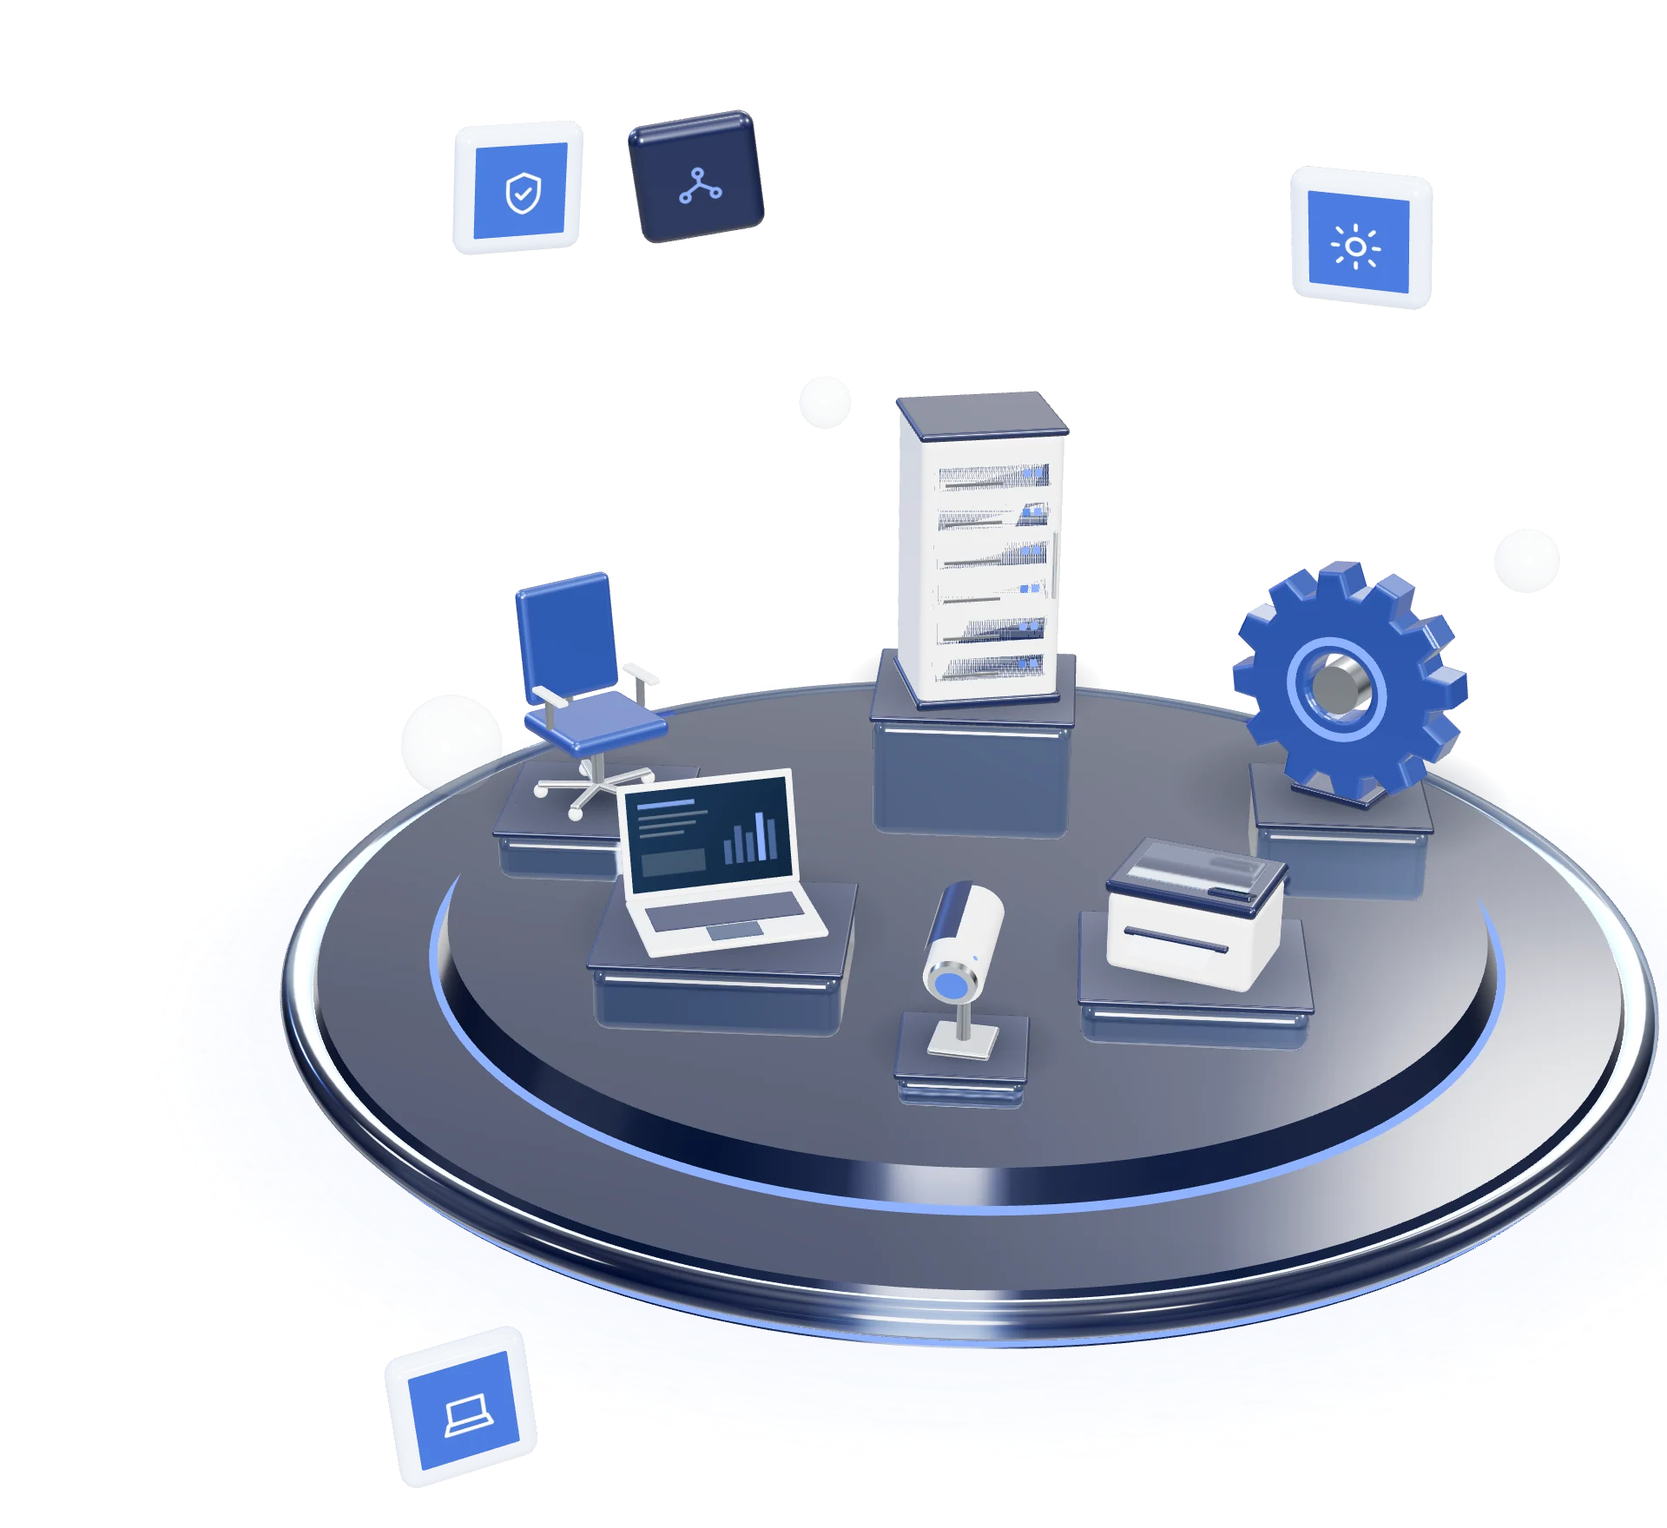
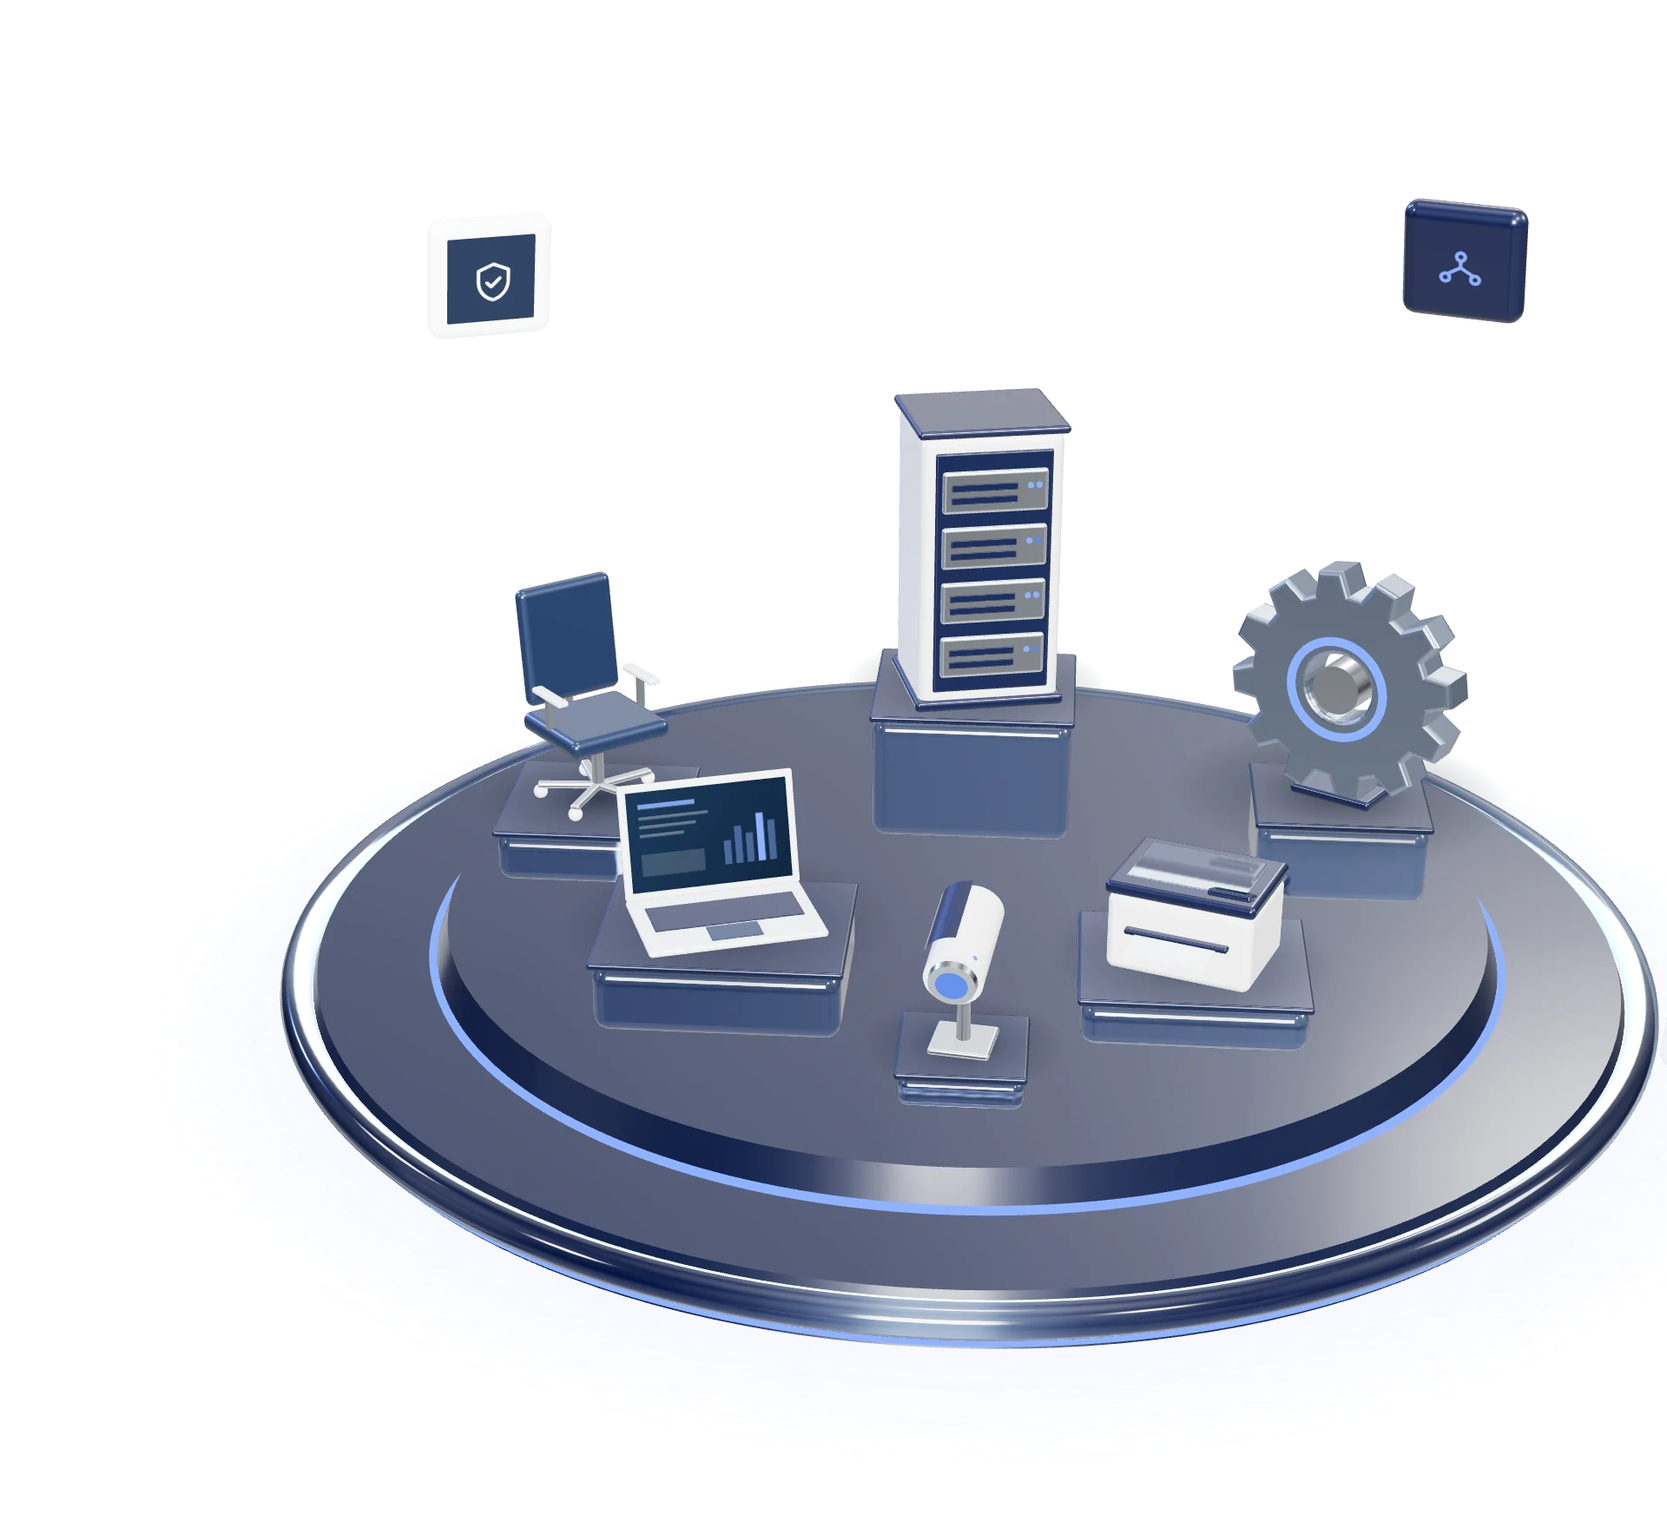
3D scene fixes and calmer look; tighter cards on phones
- Platform always fits: the hero camera pulls back to keep the whole
  platform inside the canvas at any aspect (live scene and poster).
- Server rack rebuilt with separate depths for cabinet, bay and units:
  no more z-fighting glitches; four clean server units with LEDs.
- Idle float only lifts products, so the laptop base never sinks into
  its plinth.
- Less 'generated' look: brushed-steel gear, navy chair, darker matte
  deck, three quiet navy-glass tiles, no floating spheres.
- All renders in public/3d re-rendered; size map updated.
- Cards: smaller padding and heights on phones (deck cards, bento,
  commitments, contact details and form).

diff --git a/src/components/three/products.ts b/src/components/three/products.ts
@@ -34,25 +34,30 @@ function assembly(children: THREE.Object3D[], [x, y, z]: V3 = [0, 0, 0], [rx, ry
 }
 
 function serverRack(m: Materials) {
-  const parts: THREE.Object3D[] = [part(rbox(1, 2, 0.9, 0.08), m.ceramic, [0, 1, 0])];
-  // Chrome door handle
-  parts.push(part(rbox(0.03, 0.5, 0.04, 0.015), m.chrome, [0.44, 1.05, 0.47]));
-  for (let i = 0; i < 6; i++) {
-    const y = 0.3 + i * 0.28;
+  // Cabinet, a recessed dark bay on its front, and four server units that
+  // stand proud of the bay. Every layer sits at its own depth (no shared
+  // faces), so nothing flickers.
+  const parts: THREE.Object3D[] = [
+    part(rbox(1, 2, 0.9, 0.08), m.ceramic, [0, 1, 0]),
+    part(rbox(0.82, 1.74, 0.03, 0.02), m.navy, [0, 1.02, 0.465]),
+  ];
+  for (let i = 0; i < 4; i++) {
+    const y = 0.42 + i * 0.4;
     parts.push(
       assembly(
         [
-          part(rbox(0.82, 0.22, 0.06, 0.03), m.navy),
-          part(new THREE.BoxGeometry(0.05, 0.05, 0.02), m.led, [0.31, 0.02, 0.035]),
-          part(new THREE.BoxGeometry(0.05, 0.05, 0.02), i % 2 ? m.led : m.ledSoft, [0.23, 0.02, 0.035]),
-          part(new THREE.BoxGeometry(0.4, 0.02, 0.02), m.chrome, [-0.14, -0.04, 0.035]),
+          part(rbox(0.74, 0.3, 0.05, 0.025), m.chrome),
+          part(rbox(0.46, 0.05, 0.012, 0.006), m.navy, [-0.08, 0.04, 0.03]),
+          part(rbox(0.46, 0.05, 0.012, 0.006), m.navy, [-0.08, -0.05, 0.03]),
+          part(new THREE.SphereGeometry(0.022, 14, 10), m.led, [0.24, 0.04, 0.03]),
+          part(new THREE.SphereGeometry(0.022, 14, 10), i % 2 ? m.led : m.ledSoft, [0.3, 0.04, 0.03]),
         ],
-        [0, y, 0.42],
+        [0, y, 0.5],
       ),
     );
   }
-  parts.push(part(rbox(1.04, 0.08, 0.94, 0.03), m.navy, [0, 0.04, 0]));
-  parts.push(part(rbox(1.04, 0.06, 0.94, 0.03), m.navy, [0, 2.0, 0]));
+  parts.push(part(rbox(1.06, 0.08, 0.96, 0.03), m.navy, [0, 0.04, 0]));
+  parts.push(part(rbox(1.06, 0.06, 0.96, 0.03), m.navy, [0, 2.02, 0]));
   return parts;
 }
 
@@ -114,8 +119,8 @@ function printer(m: Materials) {
 
 function officeChair(m: Materials) {
   const parts: THREE.Object3D[] = [
-    part(rbox(0.92, 0.16, 0.86, 0.07), m.steel, [0, 0.66, 0]),
-    part(rbox(0.86, 0.98, 0.13, 0.07), m.steel, [0, 1.28, -0.42], [-0.12, 0, 0]),
+    part(rbox(0.92, 0.16, 0.86, 0.07), m.brand, [0, 0.66, 0]),
+    part(rbox(0.86, 0.98, 0.13, 0.07), m.brand, [0, 1.28, -0.42], [-0.12, 0, 0]),
     part(rbox(0.1, 0.5, 0.06, 0.02), m.chrome, [0, 0.9, -0.46]),
     part(new THREE.CylinderGeometry(0.05, 0.05, 0.46, 20), m.chrome, [0, 0.38, 0]),
   ];
@@ -175,7 +180,7 @@ function gear(m: Materials) {
   });
   geometry.center();
   return [
-    part(geometry, m.steel, [0, 0.98, 0]),
+    part(geometry, m.metal, [0, 0.98, 0]),
     part(new THREE.TorusGeometry(0.4, 0.035, 14, 64), m.led, [0, 0.98, 0.2]),
     part(new THREE.CylinderGeometry(0.2, 0.2, 0.44, 32), m.chrome, [0, 0.98, 0], [Math.PI / 2, 0, 0]),
     part(rbox(0.7, 0.08, 0.4, 0.03), m.navy, [0, 0.04, 0]),

diff --git a/src/components/shared/contact-section.tsx b/src/components/shared/contact-section.tsx
@@ -55,7 +55,7 @@ export function ContactSection({ headingLevel = "h2" }: { headingLevel?: "h1" | 
           </Reveal>
 
           <Reveal delay={120} className="lg:col-span-7">
-            <div className="card relative overflow-hidden p-6 sm:p-10">
+            <div className="card relative overflow-hidden p-5 sm:p-8 lg:p-10">
               <span aria-hidden className="absolute inset-x-0 top-0 h-1 bg-linear-to-r from-navy via-steel to-sky" />
               <h3 className="text-h3 text-navy">Tell us what you need</h3>
               <p className="mt-2 text-sm leading-relaxed text-text-2">The more detail you share, the more precise our quotation.</p>
@@ -77,7 +77,7 @@ export function ContactSection({ headingLevel = "h2" }: { headingLevel?: "h1" | 
             <DetailCard icon={<Mail className="size-5" />} label="Email us" href={`mailto:${site.contact.email}`}>
               <span className="break-all">{site.contact.email}</span>
             </DetailCard>
-            <div id="office" className="card scroll-mt-32 p-6">
+            <div id="office" className="card scroll-mt-32 p-5 sm:p-6">
               <IconTile>
                 <MapPin className="size-5" />
               </IconTile>
@@ -96,7 +96,7 @@ export function ContactSection({ headingLevel = "h2" }: { headingLevel?: "h1" | 
                 </svg>
               </a>
             </div>
-            <div className="card p-6">
+            <div className="card p-5 sm:p-6">
               <IconTile>
                 <Clock className="size-5" />
               </IconTile>
@@ -129,7 +129,7 @@ function IconTile({ children }: { children: React.ReactNode }) {
 
 function DetailCard({ icon, label, href, children }: { icon: React.ReactNode; label: string; href: string; children: React.ReactNode }) {
   return (
-    <a href={href} className="group card flex flex-col p-6 transition-[translate,box-shadow] duration-500 ease-out-expo hover:-translate-y-0.5 hover:shadow-card-hover">
+    <a href={href} className="group card flex flex-col p-5 sm:p-6 transition-[translate,box-shadow] duration-500 ease-out-expo hover:-translate-y-0.5 hover:shadow-card-hover">
       <IconTile>{icon}</IconTile>
       <p className="mt-5 text-xs font-semibold tracking-[0.08em] text-text-3 uppercase">{label}</p>
       <p className="mt-2 text-[0.9375rem] font-semibold text-navy">{children}</p>

diff --git a/src/components/home/hero-scene.ts b/src/components/home/hero-scene.ts
@@ -11,7 +11,7 @@ import { gsap } from "@/lib/gsap";
 import { createMaterials, disposeMaterials, type Materials, type Quality } from "@/components/three/materials";
 import { createShared } from "@/components/three/pieces";
 import { buildHeroComposition } from "@/components/three/hero-composition";
-import { createEnvironment, createLights, createRenderer } from "@/components/three/stage";
+import { createEnvironment, createLights, createRenderer, fitHeroCamera } from "@/components/three/stage";
 import { PALETTE } from "@/components/three/materials";
 import { HERO_TUNING as T } from "./hero-tuning";
 
@@ -85,7 +85,8 @@ export function createHeroScene(canvas: HTMLCanvasElement, { mobile, reduced, qu
   const lights = createLights(scene, T.lights);
   const camera = new THREE.PerspectiveCamera(T.camera.fov, 1, 0.1, 100);
   const cam = T.camera[view];
-  const basePos = new THREE.Vector3(...cam.position);
+  const designPos = new THREE.Vector3(...cam.position);
+  let basePos = designPos.clone();
   const target = new THREE.Vector3(...cam.target);
 
   const m = createMaterials(quality);
@@ -102,6 +103,7 @@ export function createHeroScene(canvas: HTMLCanvasElement, { mobile, reduced, qu
     renderer.setSize(w, h, false);
     camera.aspect = w / h;
     camera.updateProjectionMatrix();
+    basePos = fitHeroCamera(camera, designPos, target);
   }
   resize();
   const ro = new ResizeObserver(resize);
@@ -175,7 +177,8 @@ export function createHeroScene(canvas: HTMLCanvasElement, { mobile, reduced, qu
       }
       const a = Math.max(0.0001, s.appear);
       prod.model.scale.setScalar(prod.slot.scale * a);
-      prod.model.position.y = prod.baseY + e * 0.6 + idle * Math.sin(time * 0.9 + prod.phase) * T.idle.float;
+      // Float only lifts (never sinks into the plinth).
+      prod.model.position.y = prod.baseY + e * 0.6 + idle * (0.5 + 0.5 * Math.sin(time * 0.9 + prod.phase)) * T.idle.float;
       prod.plinth.scale.set(1, Math.max(0.0001, Math.min(1, a * 1.2)), 1);
       (prod.shadow.material as THREE.MeshBasicMaterial).opacity = 0.7 * a * (1 - e);
       (prod.glint.material as THREE.SpriteMaterial).opacity = s.glint;

diff --git a/src/components/home/hero-tuning.ts b/src/components/home/hero-tuning.ts
@@ -50,28 +50,21 @@ export const HERO_TUNING = {
   },
 
   /** Frosted tiles at different depths; some cross the panel edge. */
+  /** Three quiet glass tiles; they drift slowly and tilt on hover. */
   tiles: {
     desktop: [
-      { icon: "shield", pos: [-3.4, 4.8, -2.6], rot: [0.2, 0.5, -0.12], size: 0.95 },
-      { icon: "network", pos: [-2.1, 4.9, -2.6], rot: [0.25, 0.25, 0.08], size: 0.9, navy: true },
-      { icon: "gear", pos: [2.6, 4.6, -2.4], rot: [0.3, -0.35, 0.1], size: 1.0 },
-      { icon: "camera", pos: [5.6, 3.1, 0.2], rot: [0.15, -0.6, 0.16], size: 1.1 },
-      { icon: "printer", pos: [5.2, 0.6, 2.9], rot: [-0.1, -0.5, -0.1], size: 0.9, navy: true },
-      { icon: "laptop", pos: [-2.6, -0.5, 4.6], rot: [-0.15, 0.5, 0.12], size: 0.8 },
+      { icon: "shield", pos: [-3.6, 4.2, -2.4], rot: [0.2, 0.45, -0.1], size: 0.9 },
+      { icon: "network", pos: [3.3, 4.5, -2.2], rot: [0.25, -0.35, 0.08], size: 0.85, navy: true },
+      { icon: "gear", pos: [4.6, 1.2, 2.6], rot: [-0.1, -0.5, -0.08], size: 0.8 },
     ] as TileSlot[],
     mobile: [
-      { icon: "shield", pos: [-3.6, 4.2, -1.2], rot: [0.2, 0.45, -0.1], size: 1.0 },
-      { icon: "gear", pos: [3.4, 4.4, -1.6], rot: [0.3, -0.35, 0.1], size: 1.0 },
-      { icon: "network", pos: [3.9, 1.0, 2.3], rot: [-0.1, -0.5, -0.1], size: 0.9, navy: true },
+      { icon: "shield", pos: [-3.2, 4.0, -1.6], rot: [0.2, 0.45, -0.1], size: 0.9 },
+      { icon: "network", pos: [3.2, 4.2, -1.6], rot: [0.25, -0.35, 0.08], size: 0.85, navy: true },
     ] as TileSlot[],
   },
   spheres: {
-    desktop: [
-      { pos: [-3.0, 2.5, 2.2] as [number, number, number], r: 0.3 },
-      { pos: [3.8, 2.6, -1.4] as [number, number, number], r: 0.22 },
-      { pos: [-0.9, 4.2, 0.6] as [number, number, number], r: 0.16 },
-    ],
-    mobile: [{ pos: [-3.0, 2.2, 2.0] as [number, number, number], r: 0.3 }],
+    desktop: [] as { pos: [number, number, number]; r: number }[],
+    mobile: [] as { pos: [number, number, number]; r: number }[],
   },
 
   idle: {

diff --git a/src/components/three/materials.ts b/src/components/three/materials.ts
@@ -62,12 +62,12 @@ export function createMaterials(quality: Quality) {
     }),
     /** The platform deck: deep, glossy, reflecting the blue rim light. */
     deck: new THREE.MeshPhysicalMaterial({
-      color: "#10203f",
-      metalness: 0.45,
-      roughness: 0.2,
-      clearcoat: 1,
-      clearcoatRoughness: 0.03,
-      envMapIntensity: 0.2,
+      color: "#0f1d3a",
+      metalness: 0.1,
+      roughness: 0.38,
+      clearcoat: 0.55,
+      clearcoatRoughness: 0.12,
+      envMapIntensity: 0.06,
     }),
     brand: new THREE.MeshPhysicalMaterial({
       color: PALETTE.brand,
@@ -82,6 +82,14 @@ export function createMaterials(quality: Quality) {
       roughness: 0.28,
       clearcoat: 0.7,
       clearcoatRoughness: 0.12,
+    }),
+    /** Brushed steel for mechanical parts (the gear). */
+    metal: new THREE.MeshPhysicalMaterial({
+      color: "#9aa8bd",
+      metalness: 0.9,
+      roughness: 0.34,
+      clearcoat: 0.4,
+      clearcoatRoughness: 0.2,
     }),
     chrome: new THREE.MeshStandardMaterial({ color: PALETTE.chrome, metalness: 1, roughness: 0.16 }),
     steel: new THREE.MeshPhysicalMaterial({
@@ -100,7 +108,7 @@ export function createMaterials(quality: Quality) {
     glass: glass("#e8f3fb", 0.08),
     /** Floating tiles and spheres sit over the page, not the scene, so they
      *  use fake glass: transmission over a transparent canvas reads milky. */
-    frost: glass("#9dbbf5", 0.06, 0.34, true),
+    frost: glass("#dfe9f7", 0.06, 0.22, true),
     bubble: glass("#d6ebf9", 0.04, 0.2, true),
     /** Bar-chart columns, tinted sky. */
     glassSky: glass("#a9c4ff", 0.06, 0.45),

diff --git a/src/components/home/about.tsx b/src/components/home/about.tsx
@@ -76,7 +76,7 @@ export function About() {
       <section aria-label="What we stand on" className="frame pt-6 pb-(--section-y)">
         <Container>
           <CardDeck className="grid gap-4 md:grid-cols-2 lg:grid-cols-12 lg:grid-rows-[auto_auto] lg:gap-5">
-            <article data-card data-theme="dark" className="relative isolate flex min-h-[22rem] flex-col overflow-hidden rounded-card bg-navy p-7 sm:p-8 lg:col-span-4 lg:row-span-2">
+            <article data-card data-theme="dark" className="relative isolate flex min-h-0 flex-col overflow-hidden rounded-card bg-navy p-6 sm:p-8 lg:col-span-4 lg:row-span-2">
               <div aria-hidden className="rings -right-24 -bottom-24 w-[22rem]" />
               <Eyebrow>Exclusive territory agent</Eyebrow>
               <h3 className="mt-6 text-h3 text-white">World-class industrial brands, represented in Pakistan</h3>
@@ -104,7 +104,7 @@ export function About() {
               </Button>
             </article>
 
-            <article data-card className="relative isolate min-h-[22rem] overflow-hidden rounded-card lg:col-span-5 lg:row-span-2">
+            <article data-card className="relative isolate min-h-[17rem] overflow-hidden rounded-card sm:min-h-[22rem] lg:col-span-5 lg:row-span-2">
               <Image src="/images/photos/about.webp" alt="" fill sizes="(max-width: 1024px) 100vw, 42vw" className="-z-10 object-cover" />
               <div aria-hidden className="absolute inset-0 -z-10 bg-linear-to-t from-navy/90 via-navy/30 to-transparent" />
               <div className="flex h-full flex-col justify-end p-6 sm:p-7">

diff --git a/src/app/dev/render/render-scene.tsx b/src/app/dev/render/render-scene.tsx
@@ -12,7 +12,7 @@ export function RenderScene({ name }: { name: string }) {
       const THREE = await import("three");
       const { createMaterials } = await import("@/components/three/materials");
       const { createShared } = await import("@/components/three/pieces");
-      const { createEnvironment, createLights, createRenderer, frameObject } = await import("@/components/three/stage");
+      const { createEnvironment, createLights, createRenderer, fitHeroCamera, frameObject } = await import("@/components/three/stage");
       const { buildNamedScene, SCENES, HERO_TUNING } = await import("@/components/three/scenes");
       const spec = SCENES[name];
       if (!spec) throw new Error(`Unknown scene ${name}`);
@@ -30,8 +30,9 @@ export function RenderScene({ name }: { name: string }) {
 
       const camera = new THREE.PerspectiveCamera(HERO_TUNING.camera.fov, spec.width / spec.height, 0.1, 200);
       if (spec.camera === "hero") {
-        camera.position.set(...HERO_TUNING.camera.desktop.position);
-        camera.lookAt(new THREE.Vector3(...HERO_TUNING.camera.desktop.target));
+        const target = new THREE.Vector3(...HERO_TUNING.camera.desktop.target);
+        camera.position.copy(fitHeroCamera(camera, new THREE.Vector3(...HERO_TUNING.camera.desktop.position), target));
+        camera.lookAt(target);
       } else {
         frameObject(camera, object, spec.camera);
       }

diff --git a/src/components/three/stage.ts b/src/components/three/stage.ts
@@ -48,6 +48,20 @@ export function createLights(scene: THREE.Scene, { key = 2.1, rim = 3.2 } = {}) 
   return { key: keyLight, rim: rimLight, fill, sweep };
 }
 
+/**
+ * Pulls the hero camera back along its view direction until a circle of
+ * `radius` (the platform, plus margin) fits the canvas width, so the
+ * platform is never cut off on narrow or tall canvases. Returns the
+ * fitted position.
+ */
+export function fitHeroCamera(camera: THREE.PerspectiveCamera, position: THREE.Vector3, target: THREE.Vector3, radius = 5.4) {
+  const offset = position.clone().sub(target);
+  const distance = offset.length();
+  const halfWidth = Math.tan(THREE.MathUtils.degToRad(camera.fov / 2)) * camera.aspect * distance;
+  const k = Math.max(1, radius / halfWidth);
+  return target.clone().add(offset.multiplyScalar(k));
+}
+
 /** Points the camera so `object` fills the frame (offline renders). */
 export function frameObject(camera: THREE.PerspectiveCamera, object: THREE.Object3D, { elevation = 0.42, azimuth = 0.5, padding = 1.12 } = {}) {
   const box = new THREE.Box3().setFromObject(object);

diff --git a/src/components/ui/flood-card.tsx b/src/components/ui/flood-card.tsx
@@ -8,7 +8,7 @@ import type { IconName } from "@/lib/content";
  */
 export function FloodCard({ index, icon, title, body }: { index: number; icon: IconName; title: string; body: string }) {
   return (
-    <div className="group card relative h-full p-7 transition-[translate,box-shadow] duration-500 ease-out-expo hover:-translate-y-1 hover:shadow-card-hover sm:p-8">
+    <div className="group card relative h-full p-5 transition-[translate,box-shadow] duration-500 ease-out-expo hover:-translate-y-1 hover:shadow-card-hover sm:p-7 lg:p-8">
       <div className="flex items-center justify-between">
         <span className="grid size-12 place-items-center rounded-2xl bg-ice text-steel transition-[background-color,color,rotate] duration-500 ease-out-expo group-hover:-rotate-6 group-hover:bg-navy group-hover:text-sky">
           <Icon name={icon} className="size-5" />

diff --git a/src/components/three/pieces.ts b/src/components/three/pieces.ts
@@ -91,7 +91,7 @@ export function buildTile(m: Materials, icon: IconKey, variant: "frost" | "navy"
   // A sky-tinted inner card behind the glyph, so it reads through the glass.
   const inner = new THREE.Mesh(
     new RoundedBoxGeometry(size * 0.72, size * 0.72, 0.02, 2, size * 0.14),
-    new THREE.MeshBasicMaterial({ color: variant === "navy" ? "#1d3557" : "#3f74e0", transparent: true, opacity: variant === "navy" ? 1 : 0.92, toneMapped: false }),
+    new THREE.MeshBasicMaterial({ color: variant === "navy" ? "#1b2b47" : "#24395e", transparent: true, opacity: 0.94, toneMapped: false }),
   );
   inner.position.z = size * 0.06;
   group.add(inner, slab, glyph);

diff --git a/src/components/ui/card-deck.tsx b/src/components/ui/card-deck.tsx
@@ -183,7 +183,7 @@ export function DeckCard({
           </div>
         </div>
       )}
-      <div className={cn("relative flex flex-1 flex-col p-6 pt-5", bodyClassName)}>{children}</div>
+      <div className={cn("relative flex flex-1 flex-col p-5 pt-4 sm:p-6 sm:pt-5", bodyClassName)}>{children}</div>
     </Tag>
   );
 }

diff --git a/src/components/three/renders.ts b/src/components/three/renders.ts
@@ -12,7 +12,7 @@ export const RENDERS = {
   "banner-clients": [787, 637],
   "banner-contact": [784, 668],
   "banner-404": [770, 670],
-  "product-rack": [656, 798],
+  "product-rack": [658, 794],
   "product-cctv": [700, 704],
   "product-laptop": [780, 477],
   "product-printer": [779, 448],
